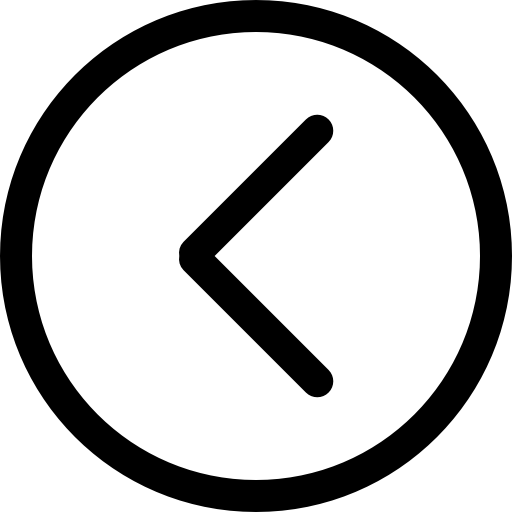
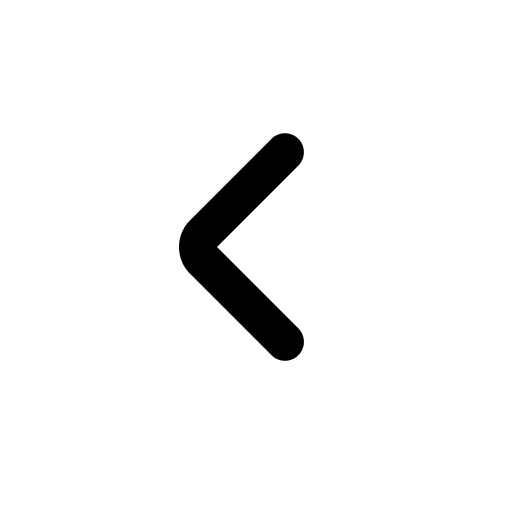
ui loading

diff --git a/static/styles.css b/static/styles.css
@@ -34,45 +34,58 @@ border-radius: 24px; /* скруглённые края */
 }
 
 .nav-btn {
-position: absolute;
-top: 0;
-bottom: 0;
-width: 50px;
-background-color: rgba(0,0,0,0.2);
-color: white;
-border: none;
-cursor: pointer;
-opacity: 0; /* изначально невидима */
-transition: opacity 0.3s;
-font-size: 24px;
-display: flex;
-justify-content: center;
-align-items: center;
+    position: absolute;
+    top: 0;
+    bottom: 0;
+    width: 100px; /* ширина кнопки */
+    border: none;
+    cursor: pointer;
+    opacity: 0; /* изначально невидима */
+    transition: opacity 0.3s;
+    display: flex;
+    justify-content: center;
+    align-items: center;
 }
 
-#imgFrame:hover .nav-btn{
-opacity: 1; /* появляется только при наведении на саму кнопку */
+/* Показывать при наведении на сам контейнер */
+#imgFrame:hover .nav-btn {
+    opacity: 1;
 }
 
 /* Левая кнопка */
 .nav-btn.left {
-left: 0;
-border-radius: 24px 0 0 24px;
-background-image: url('left.png');
-background-repeat: no-repeat;
-background-position: center;
-background-size: 24px 24px;
+    left: 0;
+    border-radius: 24px 0px 0px 24px;
+    background: linear-gradient(to right, rgba(0,0,0,0.4), rgba(0,0,0,0));
 }
 
 /* Правая кнопка */
 .nav-btn.right {
-right: 0;
-border-radius: 0 24px 24px 0;
-background-image: url('right.png');
-background-repeat: no-repeat;
-background-position: center;
-background-size: 24px 24px;
+    right: 0;
+    border-radius: 0px 24px 24px 0px;
+    background: linear-gradient(to left, rgba(0,0,0,0.4), rgba(0,0,0,0));
 }
+
+/* Стрелки поверх градиента */
+.nav-btn::after {
+    content: '';
+    width: 36px;
+    height: 36px;
+    background-size: contain;
+    background-repeat: no-repeat;
+    background-position: center;
+}
+
+.nav-btn.left::after {
+    background-image: url('left.png');
+    transform: translateX(-40%);
+}
+
+.nav-btn.right::after {
+    background-image: url('right.png');
+    transform: translateX(+40%);
+}
+
 .cart-panel{
 display: inline-flex;
 padding: 32px 34px;

diff --git a/templates/home.html b/templates/home.html
@@ -15,7 +15,22 @@
         <img src="static/otvertka.png" style="width:48px; height:48px; border-radius:50px; border:1px #D0D0D0 solid;">
         <span style="font-size:16px; font-weight:700; color:#141414;">Распознаватель инструментов</span>
     </div>
-    <div id="loading">Loading...</div>
+
+    <style>
+      @keyframes spin {
+        from { transform: rotate(0deg); }
+        to { transform: rotate(360deg); }
+      }
+
+      #processingIndicator {
+        animation: spin 1s linear infinite;
+      }
+    </style>
+
+    <div id="loading" style="display: flex; align-items: center; gap: 8px;">
+        <img id="processingIndicator" src="static/otvetka_loader.png" alt="Loading" style="width:100px; height:100px; margin-top: 300px;">
+    </div>
+
     <div id="screen1" class="hidden" style="
     display: flex;
     flex-direction: column;
